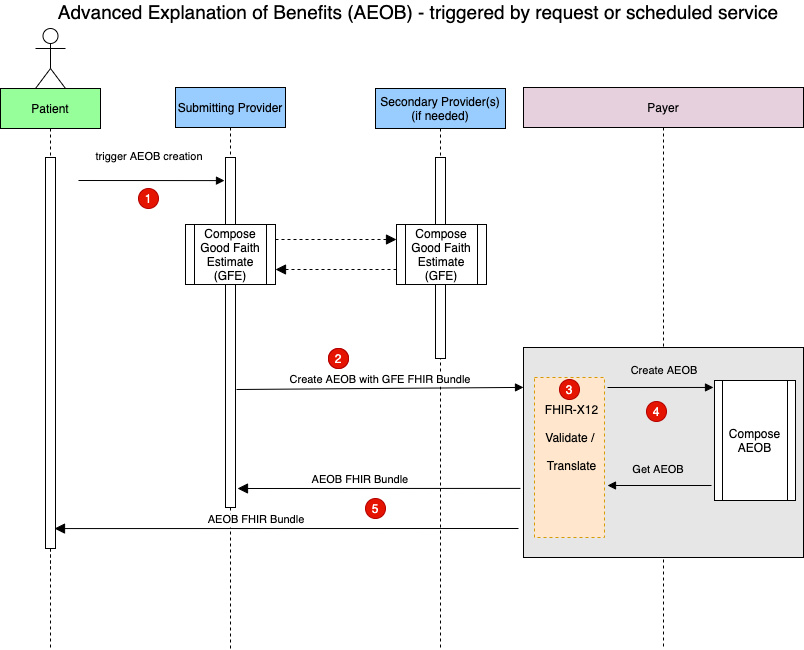
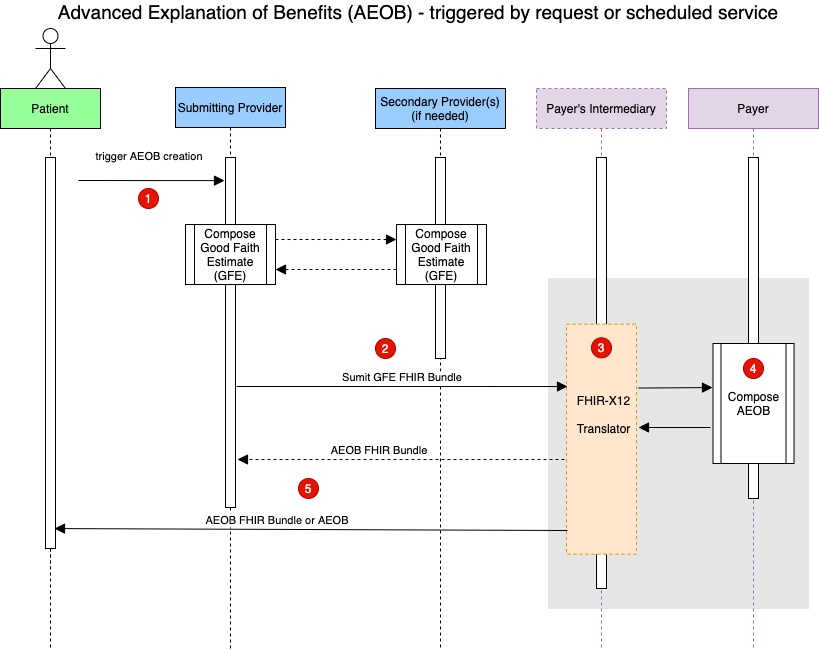
updated index page

diff --git a/input/pagecontent/index.md b/input/pagecontent/index.md
@@ -20,19 +20,19 @@ The project team plans to work with existing FHIR artifacts where possible. If c
 
 This project will reference, where possible the 'standards' defined by the Health Record exchange (HRex) Library/Framework Implementation Guide and other FHIR IGs where applicable.
 
-As this is a FHIR based use case and X12 is not required. X12 will only be used to inform the PCT APIs. In other words, the implementer is not required to use X12 as there is not HIPPA mandate to do so.
+As this is a FHIR based use case and X12 is not required. X12 will only be used to inform the PCT APIs. In other words, the implementer is not required to use X12 as there is not an HIPPA mandate to do so.
 
-**AEOB Interaction Diagram Steps (draft)**
+**AEOB Interaction Diagram Steps**
 
 1.  A patient schedules a service which triggers the composition of a collection of 1 or more GFEs. <em>Note: The composition of the collection of GFEs is currently not in scope for this IG. </em>
 
-2.  The collection of GFEs in the form of a FHIR resource bundle (GFE Bundle) is sent to the create AEOB API endpoint hosted by the payer after being validated.
+2.  The collection of GFEs in the form of a FHIR resource bundle (GFE Bundle) is submitted to the payer’s intermediary or payer’s endpoint for AEOB creation.  
 
-3.  The GFE Bundle is validated. <em>Note: During this process, the payer might convert the collection of GFEs to X12, but this is not required to be conformant with this IG.</em> 
+3.  The payer’s intermediary or payer might convert the collection of GFEs to X12.  <em>Note: Converting the GFE bundle to X12 or any other format is not required to be conformant with this IG. </em> 
 
-4.  The payer would then process, adjudicate, and produce the AEOB. 
+4.  The payer would then process, adjudicate, and produce the AEOB bundle. 
 
-5.  Once the payer has completed the adjudication of the GFEs and the creation of the AEOB. The patient and provider can be notified that the AEOB is ready. The payer can then deliver the AEOB to the patient and provider via a delivery mechanism of choice (e.g., mail, email, web portal). Also, the AEOB can be received via API in a FHIR based format. <em>Note: The delivery mechanisms mentioned above are not in scope for this IG, only the API used to retrieve the AEOB bundle.</em>      
+5.  Once the payer has completed the adjudication of the GFEs and the creation of the AEOB. The patient (and optionally the provider) can be notified that the AEOB is ready. The payer can then deliver the AEOB to the patient (and optionally the provider) via a delivery mechanism of choice (e.g., mail, email, web portal, or other). Also, the AEOB bundle can be received via API. <em>Note: The delivery mechanisms mentioned above are not in scope for this IG, only the API used to retrieve the AEOB bundle. </em>      
 
 ![AEOB Interaction Diagram (draft)](AEOB-interaction.png){:style="float: none;"}
 
@@ -40,4 +40,5 @@ As this is a FHIR based use case and X12 is not required. X12 will only be used 
 * The full [FHIR PCT Implementation Guide](full-ig.zip)
 * [FHIR PCT Resource Definitions (JSON)](definitions.json.zip)
 * [FHIR PCT IG Profile Examples (JSON)](examples.json.zip)
-* [FHIR PCT IG Validator Pack](validator-hl7.fhir.us.davinci-pct.pack)
+* [FHIR PCT IG Validator Pack](validator-hl7.fhir.us.davinci-pct.pack
+
